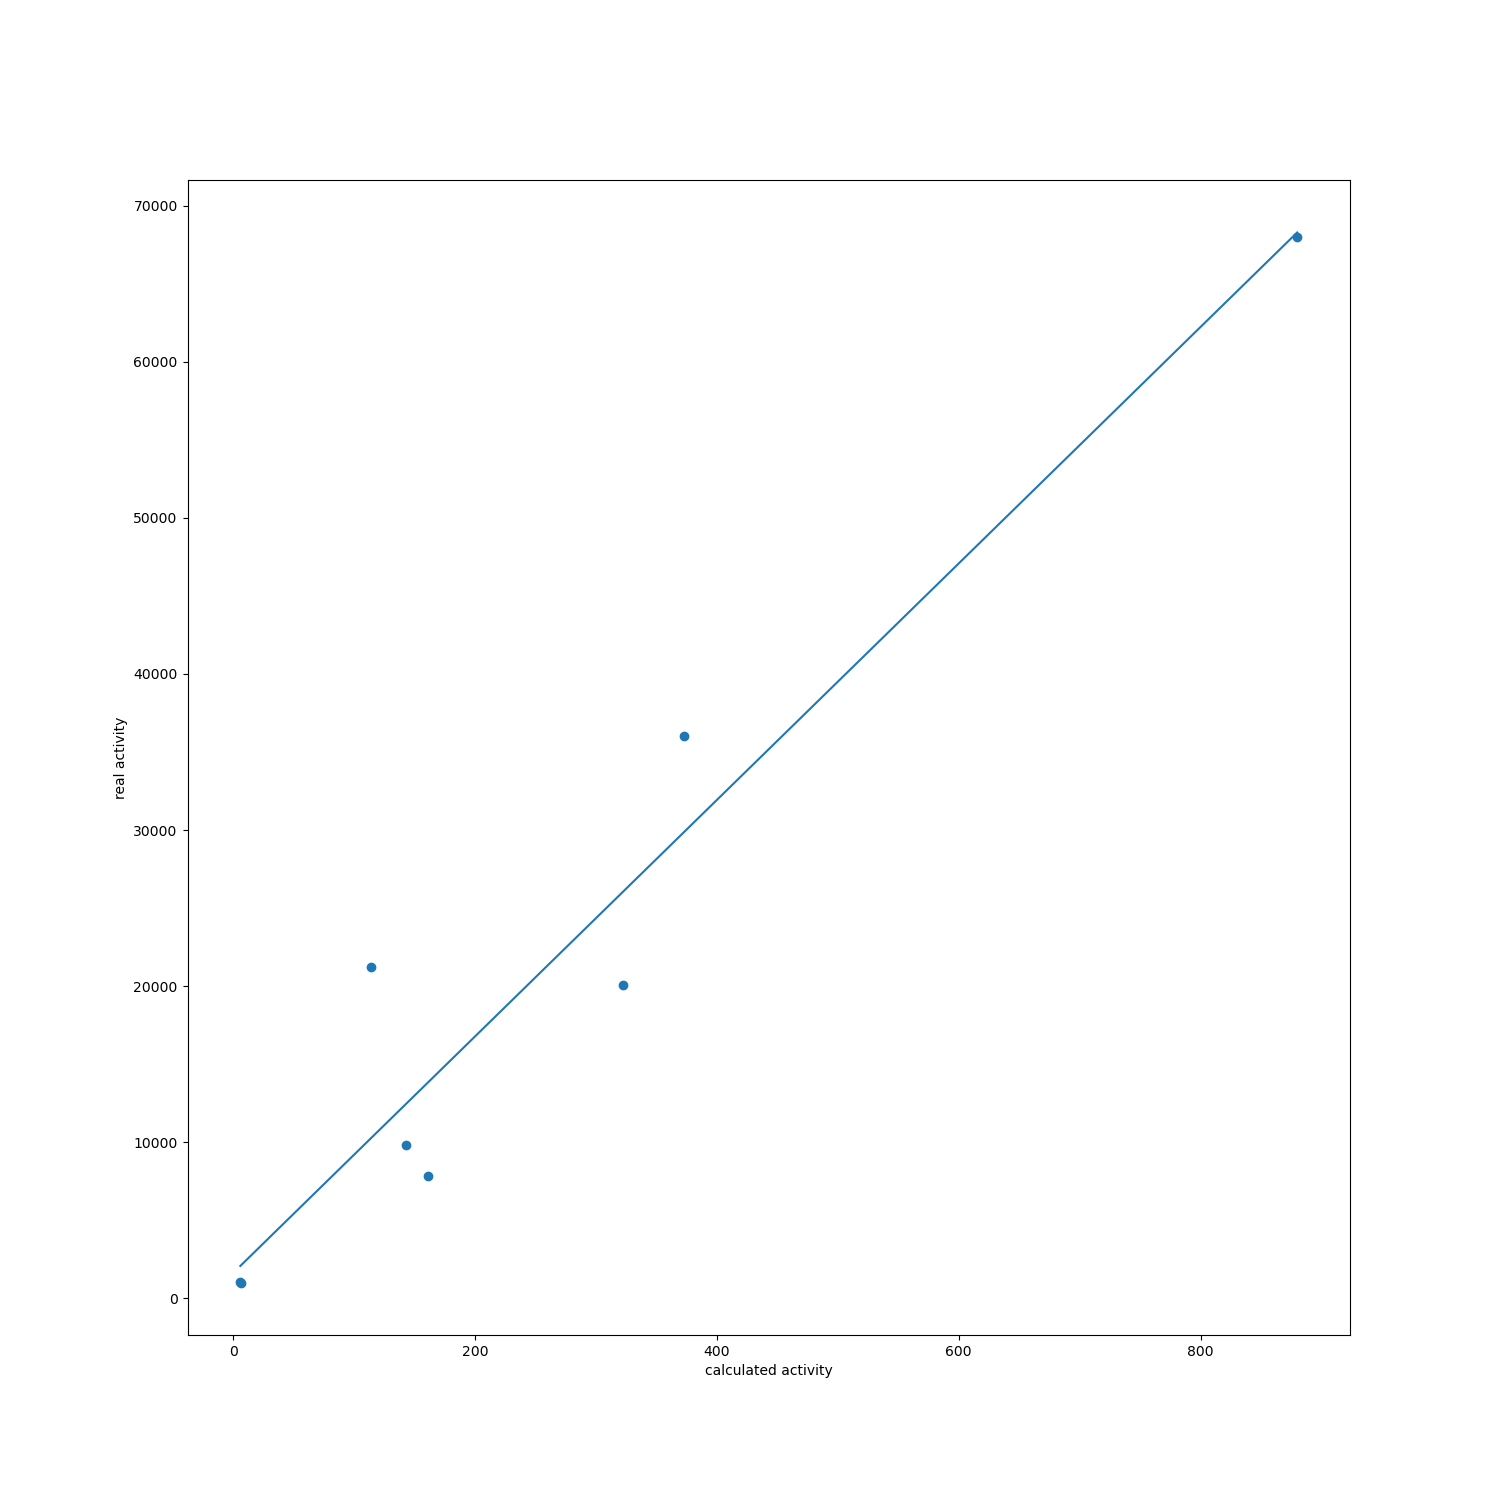
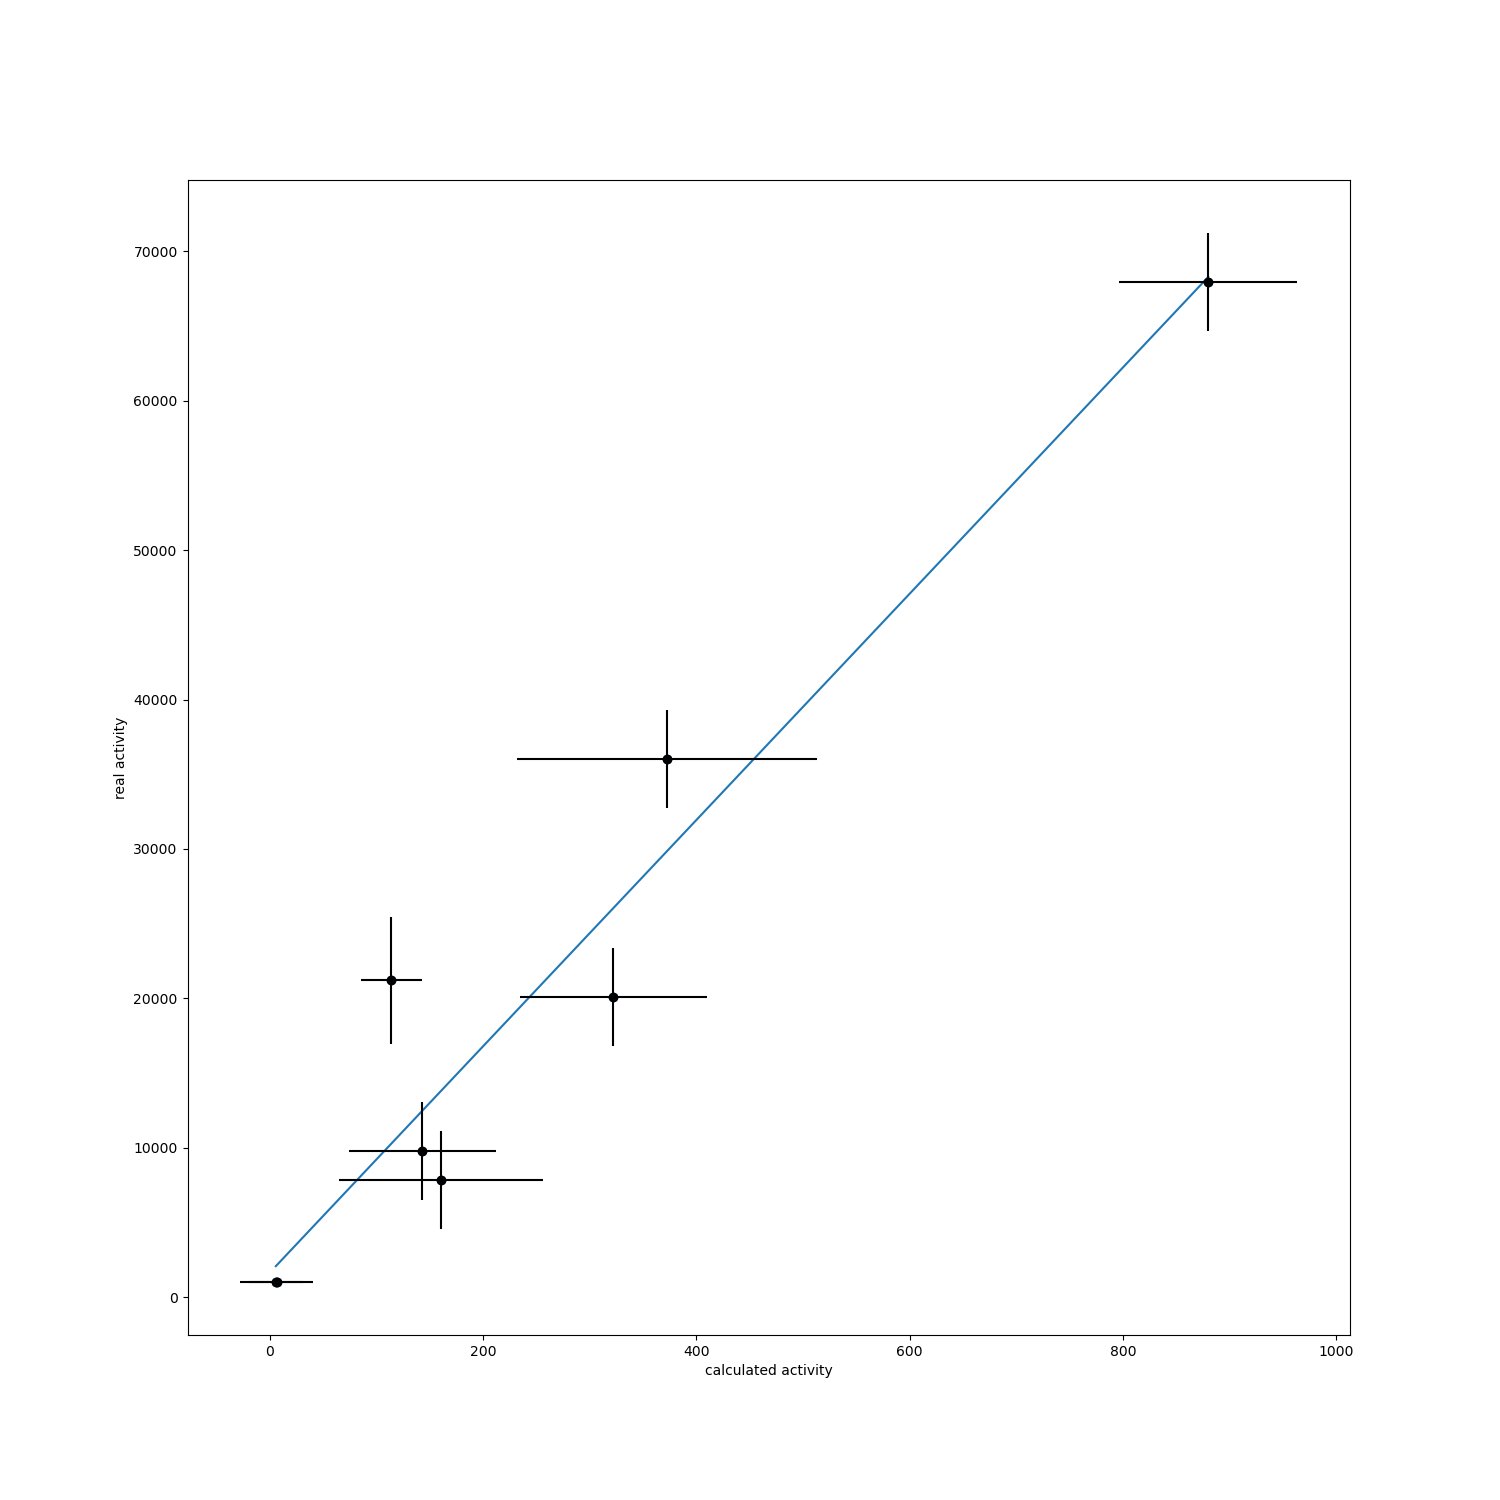
update activity calibration

diff --git a/HPGe/activity.py b/HPGe/activity.py
@@ -77,6 +77,10 @@ na22_current_act = current_activity(37e3, 762, 2.6018*365)
 co60_current_act = current_activity(3.7e5, 16390, 1925.28)
 ba133_current_act = current_activity(3.81e5, 6925, 10.551*365)
 
+real_na22_uncert = 0.2 * na22_current_act
+real_co60_uncert = 0.03 * co60_current_act
+real_ba133_uncert = 0.03 * ba133_current_act
+
 real_na22_acts = list(
     na22_current_act * np.array(known_peaks.Na22.intensities))
 real_ba133_acts = list(
@@ -88,19 +92,31 @@ calc_na22_acts = list(Na22.calc_peak_activities)
 calc_ba133_acts = list(Ba133.calc_peak_activities)
 calc_co60_acts = list(Co60.calc_peak_activities)
 
+na22_act_uncert = list(Na22.uncertainties)
+ba133_act_uncert = list(Ba133.uncertainties)
+co60_act_uncert = list(Co60.uncertainties)
+
 real_activities = real_co60_acts + real_ba133_acts + real_na22_acts
 calc_activities = calc_co60_acts + calc_ba133_acts + calc_na22_acts
+calc_act_uncerts = co60_act_uncert + ba133_act_uncert + na22_act_uncert
 
 # need real = line(calculated)
 act_line = np.polyfit(calc_activities, real_activities, deg=1)
 activity_x_values = np.arange(min(calc_activities), max(calc_activities), 1)
 fit_activities = np.polyval(act_line, activity_x_values)
 
+y_error = [real_co60_uncert]*2 + [real_ba133_uncert]*5 + [real_na22_uncert]*1
+
 plt.figure(figsize=(15, 15))
 plt.xlabel("calculated activity")
 plt.ylabel("real activity")
 plt.scatter(calc_activities, real_activities)
 plt.plot(activity_x_values, fit_activities)
+
+plt.errorbar(
+    calc_activities, real_activities,
+    xerr=calc_act_uncerts, yerr=y_error,
+    fmt='o', ecolor='k', color='k')
 plt.savefig("images/activity_calibration.png")
 plt.cla()
 plt.clf()
